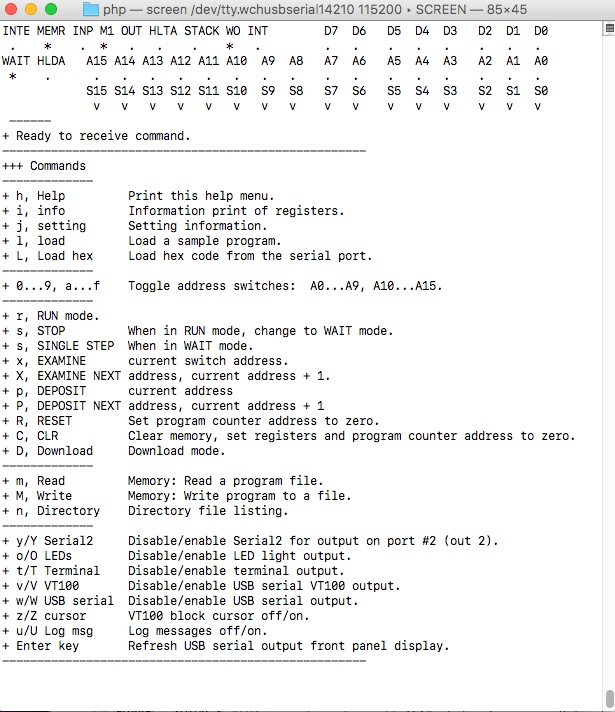
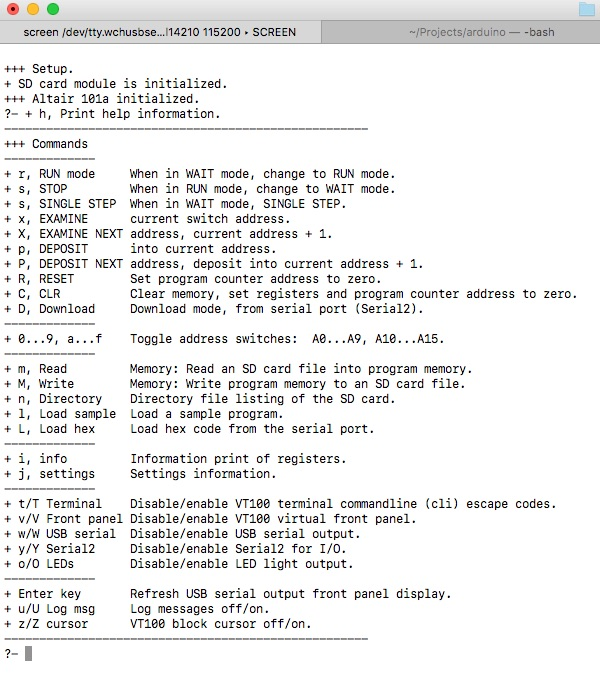
updates

diff --git a/Altair101/Altair101aDoc/README.md b/Altair101/Altair101aDoc/README.md
@@ -1,10 +1,22 @@
 --------------------------------------------------------------------------------
 # Altair 101a Simulator Machine
 
-This machine is a serial port interactive Altair 8800 simulator.
-It has rudimentary OS to run programs from command line.
-Or it can be run using a virtual Altair 8800 front panel display and virtual switches.
-The hardware is a Mega 2560 board, micro SD card reader, second hardware serial port, on a 4 port USB hub.
+This machine has a serial port interface to an Altair 8800 simulator.
+It has a rudimentary OS to run the simulator from command line.
+Or, the simulator can be run using a virtual Altair 8800 front panel.
+I'm using David Hansel's Altair 8800 Simulator code to run the machine instructions. 
+The hardware is a Mega 2560 board, micro SD card reader, serial port module, and a 4 port USB hub.
+
+How to connect from a UNIX or Mac OS terminal:
+````
+$ ls /dev/tty.*
+... /dev/tty.wchusbserial14210  /dev/tty.wchusbserial14220
+$ screen /dev/tty.wchusbserial14210 115200
++++ Setup.
++ SD card module is initialized.
++++ Altair 101a initialized.
+?- 
+````
 
 Description:
 + Runs 8080 machine code programs.
